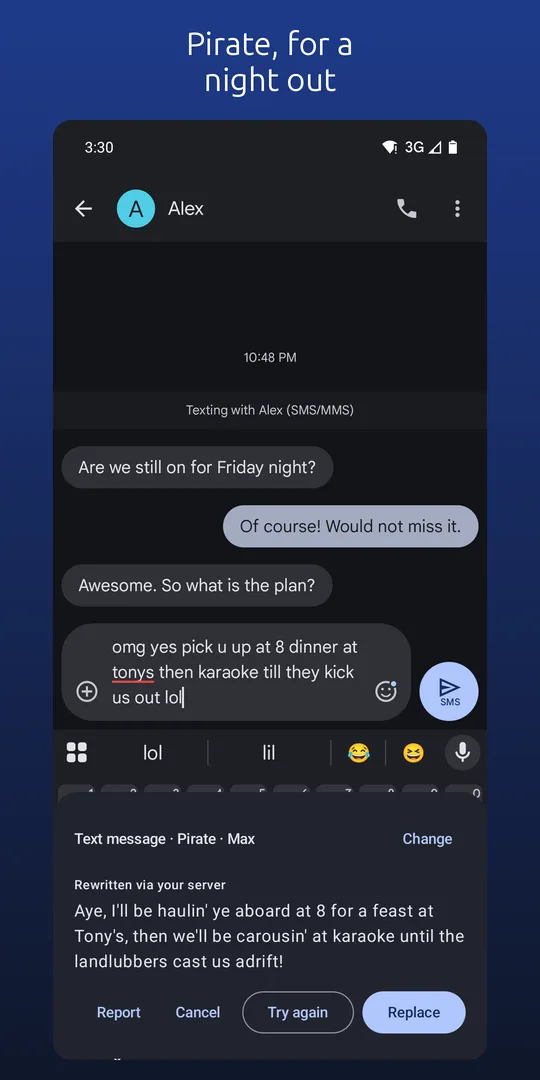
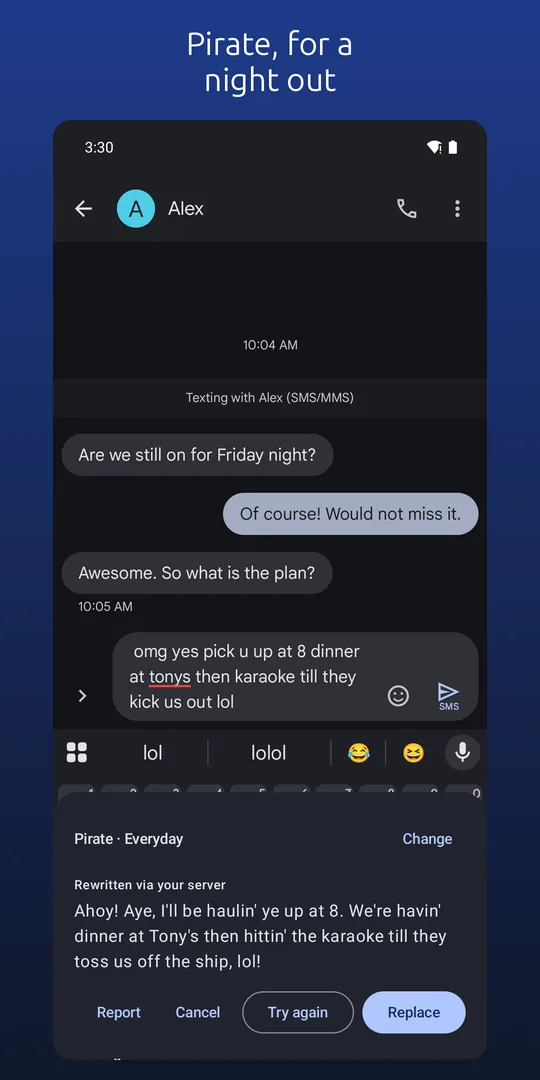
New screenshots: Poetic, Pro style list, first-run notice

diff --git a/index.html b/index.html
@@ -83,17 +83,22 @@ and see the rewrite before it goes in.</p>
 
 <h2>See it in action</h2>
 <ul class="gallery">
-  <li><a href="screens/full/01-professional.webp?v=98508ad5"><img src="screens/01-professional.webp?v=6ed19805" alt="A messy text about being late to a meeting, rewritten as Professional at the Everyday reading level" width="540" height="1080" loading="lazy"></a></li>
-  <li><a href="screens/full/02-prosent.webp?v=ae19e53d"><img src="screens/02-prosent.webp?v=e843730c" alt="The professional rewrite after it was sent" width="540" height="1080" loading="lazy"></a></li>
-  <li><a href="screens/full/03-shakespeare.webp?v=27cc5981"><img src="screens/03-shakespeare.webp?v=6e9f095b" alt="The same text rewritten as Shakespeare at the Max reading level" width="540" height="1080" loading="lazy"></a></li>
-  <li><a href="screens/full/04-pirate.webp?v=a46a585f"><img src="screens/04-pirate.webp?v=77b3df69" alt="A messy text about a night out, rewritten as Pirate at the Max reading level" width="540" height="1080" loading="lazy"></a></li>
-  <li><a href="screens/full/05-piratesent.webp?v=105aed1c"><img src="screens/05-piratesent.webp?v=a60b5228" alt="The pirate rewrite after it was sent" width="540" height="1080" loading="lazy"></a></li>
-  <li><a href="screens/full/06-lpbefore.webp?v=71cc35d1"><img src="screens/06-lpbefore.webp?v=1fc9f4e4" alt="Tapping the Reword button on a messy text about bringing home dinner" width="540" height="1080" loading="lazy"></a></li>
-  <li><a href="screens/full/07-lpafter.webp?v=ed4eba2f"><img src="screens/07-lpafter.webp?v=08da3d29" alt="The text reworded in place as a rhyme at the Expert reading level, with an Undo button" width="540" height="1080" loading="lazy"></a></li>
-  <li><a href="screens/full/08-setup.webp?v=2d2c6104"><img src="screens/08-setup.webp?v=0e014781" alt="Setup: choosing the free AI that runs on the phone, with its one-time download" width="540" height="1080" loading="lazy"></a></li>
-  <li><a href="screens/full/09-disclosure.webp?v=445ebfd0"><img src="screens/09-disclosure.webp?v=8eb06616" alt="What the Reword button can see" width="540" height="1080" loading="lazy"></a></li>
-  <li><a href="screens/full/10-settings.webp?v=07e81d19"><img src="screens/10-settings.webp?v=3a2fdeb3" alt="Settings: your default style and reading level" width="540" height="1080" loading="lazy"></a></li>
-  <li><a href="screens/full/11-extras.webp?v=ed7d5053"><img src="screens/11-extras.webp?v=f2a2109b" alt="Extras: the Reword keyboard, Quick Settings and the text-selection menu" width="540" height="1080" loading="lazy"></a></li>
+  <li><a href="screens/full/01-professional.webp?v=1f1343a1"><img src="screens/01-professional.webp?v=ffd5309b" alt="A messy text about being late to a meeting, rewritten as Professional at the Everyday reading level" width="540" height="1080" loading="lazy"></a></li>
+  <li><a href="screens/full/02-prosent.webp?v=1b4f117e"><img src="screens/02-prosent.webp?v=f5cc8e4d" alt="The professional rewrite after it was sent" width="540" height="1080" loading="lazy"></a></li>
+  <li><a href="screens/full/03-shakespeare.webp?v=8caebf50"><img src="screens/03-shakespeare.webp?v=f0bc8008" alt="A messy text promising a report, rewritten as Shakespeare" width="540" height="1080" loading="lazy"></a></li>
+  <li><a href="screens/full/04-pirate.webp?v=ffc621f4"><img src="screens/04-pirate.webp?v=6dc24448" alt="A messy text about a night out, rewritten as Pirate" width="540" height="1080" loading="lazy"></a></li>
+  <li><a href="screens/full/05-piratesent.webp?v=d2ce5eda"><img src="screens/05-piratesent.webp?v=0e372ef0" alt="The pirate rewrite after it was sent" width="540" height="1080" loading="lazy"></a></li>
+  <li><a href="screens/full/06-poetic.webp?v=7e3b7d85"><img src="screens/06-poetic.webp?v=3a676583" alt="A text about five years together, rewritten as a short poem with the same meaning" width="540" height="1080" loading="lazy"></a></li>
+  <li><a href="screens/full/07-poeticsent.webp?v=cea0e9d8"><img src="screens/07-poeticsent.webp?v=00266591" alt="The poem after it was sent" width="540" height="1080" loading="lazy"></a></li>
+  <li><a href="screens/full/08-prolist.webp?v=3ee5c318"><img src="screens/08-prolist.webp?v=82e37718" alt="The pull-down of Pro styles, grouped, with a pinned style marked" width="540" height="1080" loading="lazy"></a></li>
+  <li><a href="screens/full/09-choices.webp?v=7e176a75"><img src="screens/09-choices.webp?v=c24684f8" alt="Changing the style in the Reword panel: free styles, pinned Pro styles and the pull-down" width="540" height="1080" loading="lazy"></a></li>
+  <li><a href="screens/full/10-lpbefore.webp?v=0f1928ce"><img src="screens/10-lpbefore.webp?v=6d1de5db" alt="Tapping the Reword button on a messy text about bringing home dinner" width="540" height="1080" loading="lazy"></a></li>
+  <li><a href="screens/full/11-lpafter.webp?v=4a0420d9"><img src="screens/11-lpafter.webp?v=543d6114" alt="The text reworded in place as a rhyme at the Expert reading level, with an Undo button" width="540" height="1080" loading="lazy"></a></li>
+  <li><a href="screens/full/12-setup.webp?v=df0a2d04"><img src="screens/12-setup.webp?v=cfa43182" alt="Setup: choosing the AI that does the rewriting, your own server, a cloud service or the phone" width="540" height="1080" loading="lazy"></a></li>
+  <li><a href="screens/full/13-disclosure.webp?v=7fde0411"><img src="screens/13-disclosure.webp?v=45829351" alt="What the Reword button can see" width="540" height="1080" loading="lazy"></a></li>
+  <li><a href="screens/full/14-settings.webp?v=e6883973"><img src="screens/14-settings.webp?v=790a5e93" alt="Settings: your default style and reading level" width="540" height="1080" loading="lazy"></a></li>
+  <li><a href="screens/full/15-extras.webp?v=787d3fb7"><img src="screens/15-extras.webp?v=796437eb" alt="Extras: the Reword keyboard, Quick Settings and the text-selection menu" width="540" height="1080" loading="lazy"></a></li>
+  <li><a href="screens/full/16-terms.webp?v=efed6f3f"><img src="screens/16-terms.webp?v=19b285bc" alt="The first-run notice: AI can make mistakes, check each message before sending, with the license under it" width="540" height="1080" loading="lazy"></a></li>
 </ul>
 
 <h2>Works where you type</h2>
